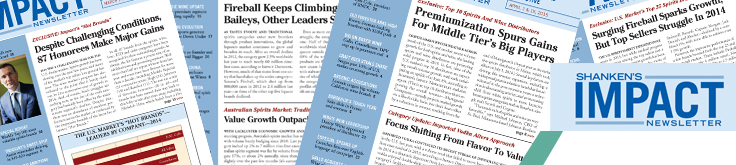
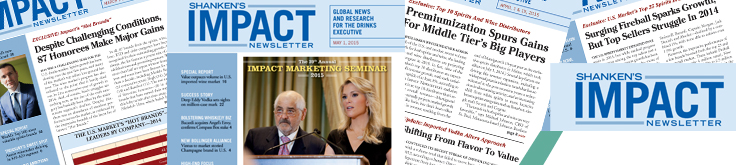
IM updated header image, and added a link to web-d\site

diff --git a/_site/public/impact/index.md b/_site/public/impact/index.md
@@ -27,3 +27,5 @@ No other publication has such reach and influence. *Impact* puts you in touch wi
 
 For more information, or to place advertisements, call me Stephen Senatore (Advertising Director), at (212) 684-4224 ext. 668; or email 
 <a href="mailto:ssenatore@mshanken.com">**ssenatore@mshanken.com**</a>
+
+Also, please visit <a href="http://www.marketwatchmag.com" target="_blank"><em><strong>MarketWatchmag.com</strong></em></a> for the latest information.
